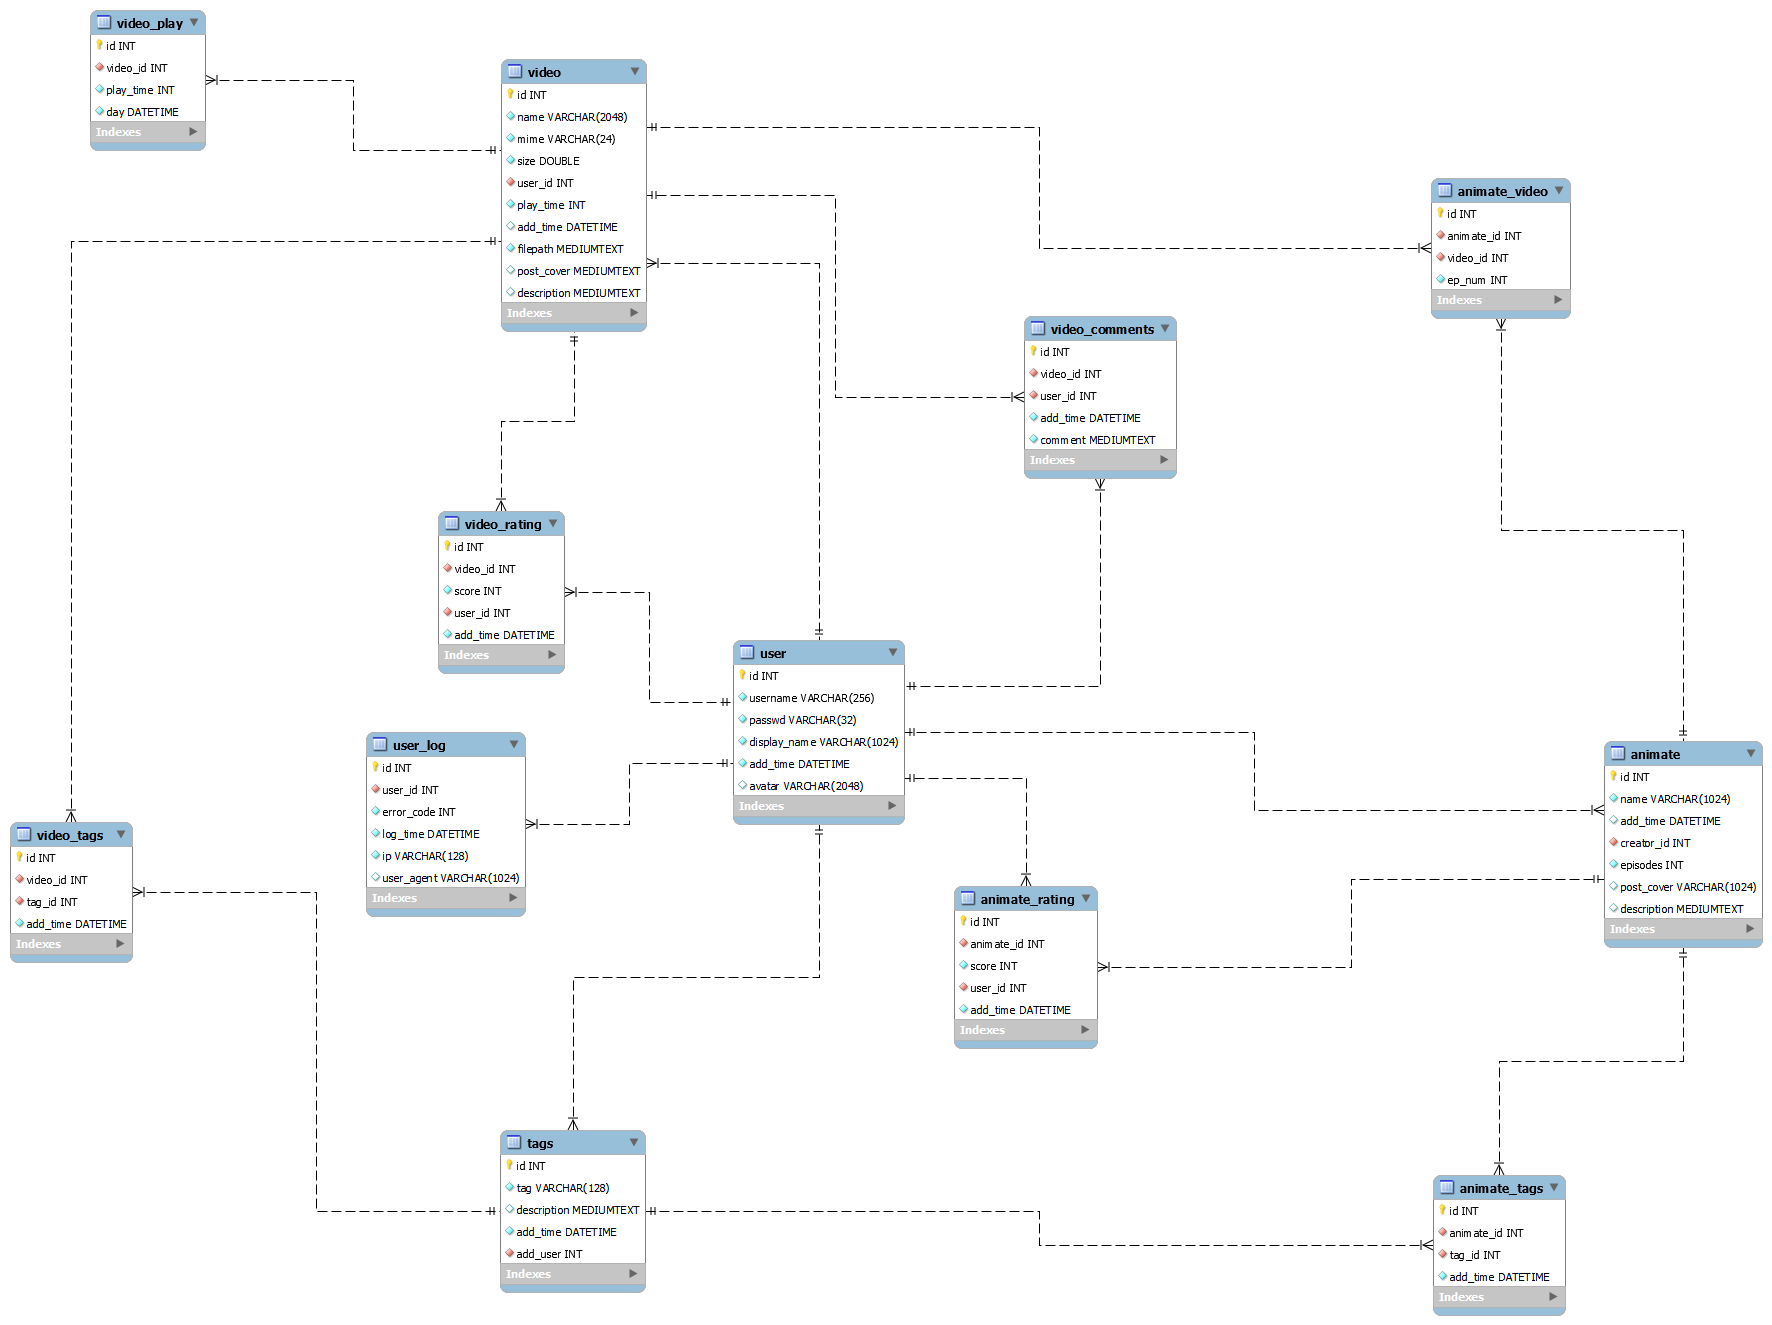
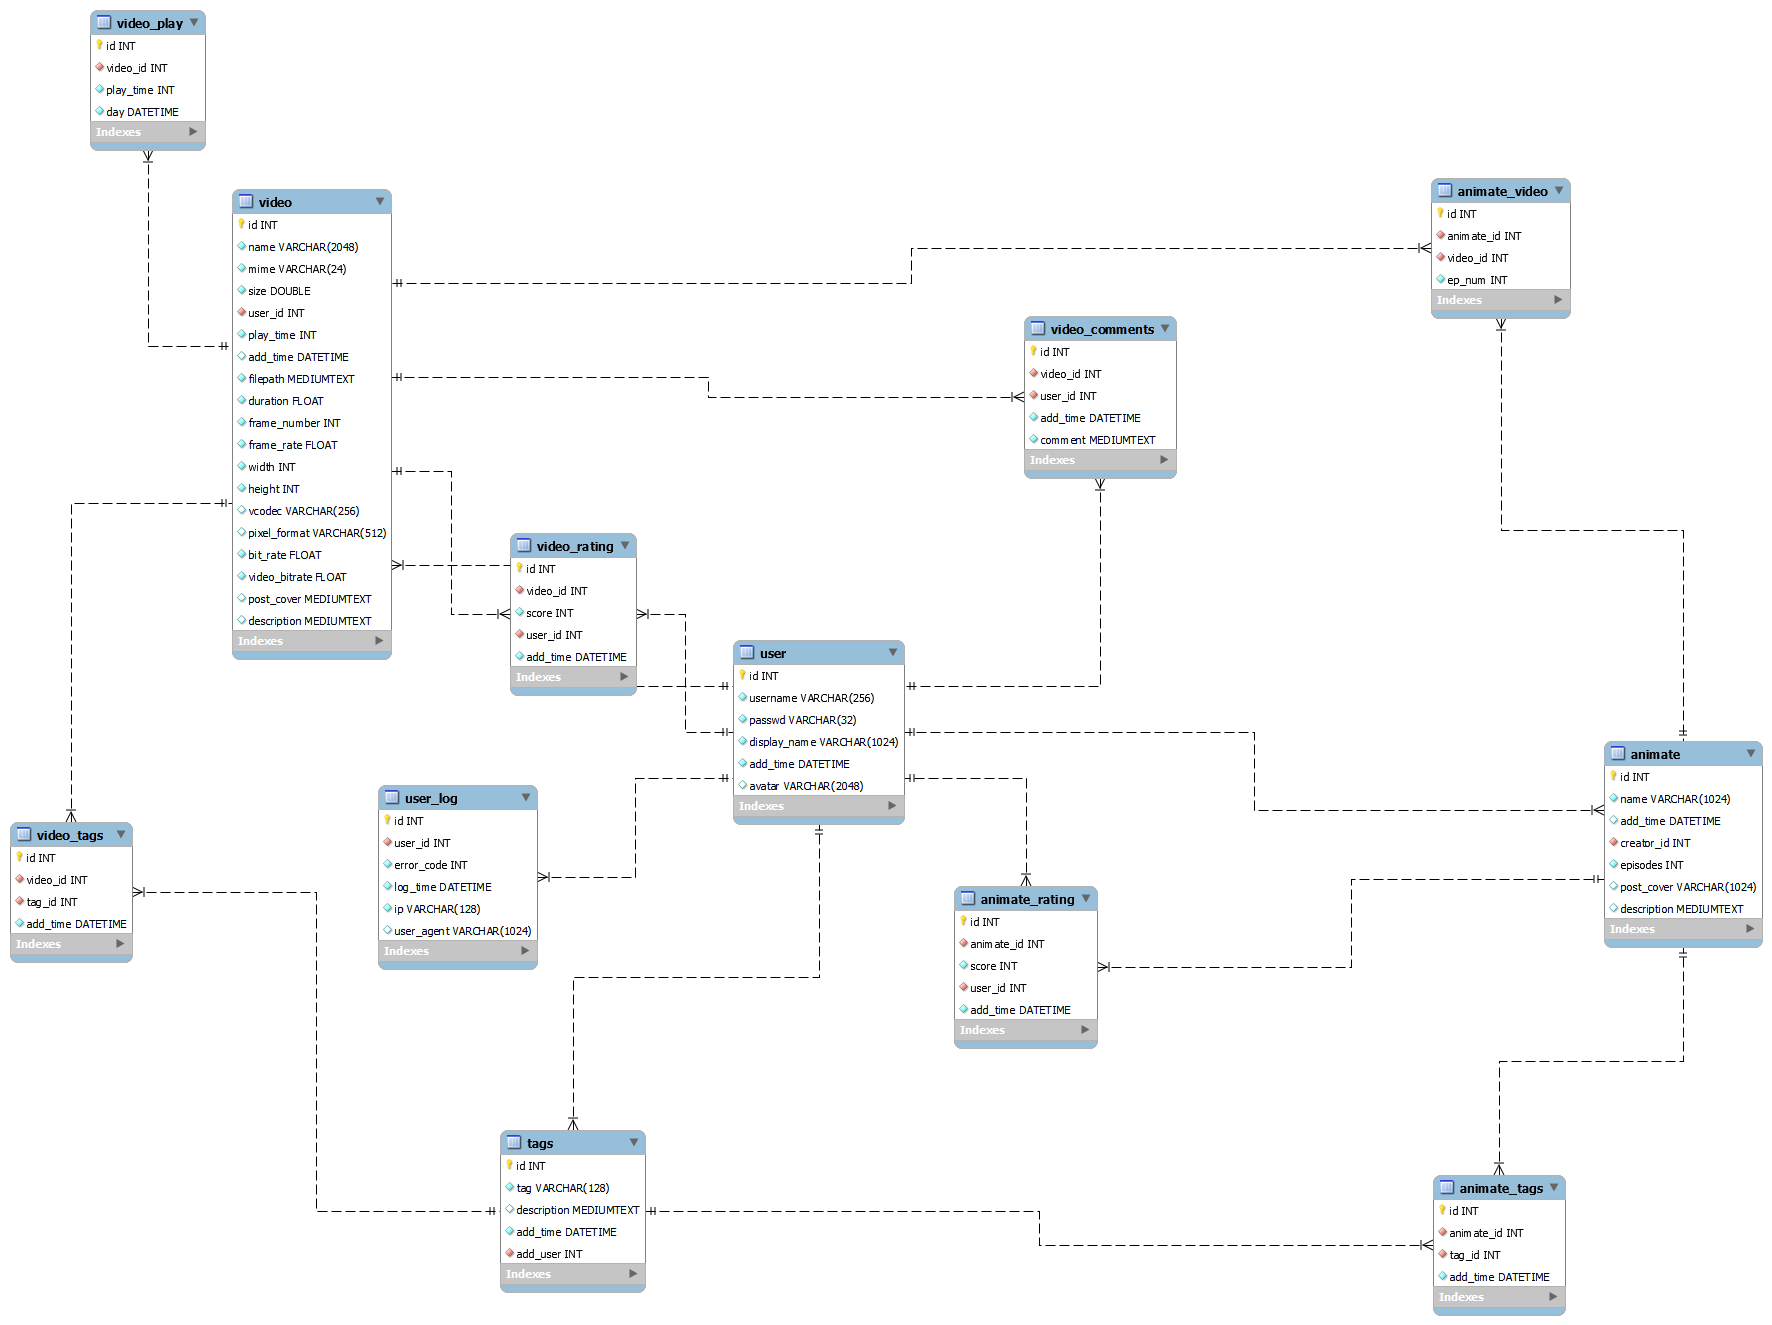
add video metadata into table

Changed region(s): [[0.1242, 0.1238, 0.3725, 0.7426], [0.2793, 0.0309, 0.3725, 0.2785]]

diff --git a/mysql/upgrade_notes.md b/mysql/upgrade_notes.md
@@ -41,6 +41,60 @@ Field data attribute of current table ``size`` has been updated:
 ALTER TABLE `yilia`.`video` CHANGE COLUMN `size` `size` double NOT NULL DEFAULT 0 COMMENT '' ;
 ```
 
+Add a new data field ``duration``:
+
+```sql
+ALTER TABLE `yilia`.`video` ADD COLUMN `duration` double UNSIGNED NOT NULL DEFAULT 0 COMMENT '' ;
+```
+
+Add a new data field ``frame_number``:
+
+```sql
+ALTER TABLE `yilia`.`video` ADD COLUMN `frame_number` int (11) UNSIGNED NOT NULL DEFAULT 0 COMMENT '' ;
+```
+
+Add a new data field ``frame_rate``:
+
+```sql
+ALTER TABLE `yilia`.`video` ADD COLUMN `frame_rate` double UNSIGNED NOT NULL DEFAULT 0 COMMENT '' ;
+```
+
+Add a new data field ``width``:
+
+```sql
+ALTER TABLE `yilia`.`video` ADD COLUMN `width` int (11) UNSIGNED NOT NULL DEFAULT 0 COMMENT '' ;
+```
+
+Add a new data field ``height``:
+
+```sql
+ALTER TABLE `yilia`.`video` ADD COLUMN `height` int (11) UNSIGNED NOT NULL DEFAULT 0 COMMENT '' ;
+```
+
+Add a new data field ``vcodec``:
+
+```sql
+ALTER TABLE `yilia`.`video` ADD COLUMN `vcodec` varchar (256) COMMENT '' ;
+```
+
+Add a new data field ``pixel_format``:
+
+```sql
+ALTER TABLE `yilia`.`video` ADD COLUMN `pixel_format` varchar (512) COMMENT '' ;
+```
+
+Add a new data field ``bit_rate``:
+
+```sql
+ALTER TABLE `yilia`.`video` ADD COLUMN `bit_rate` double UNSIGNED NOT NULL DEFAULT 0 COMMENT '' ;
+```
+
+Add a new data field ``video_bitrate``:
+
+```sql
+ALTER TABLE `yilia`.`video` ADD COLUMN `video_bitrate` double UNSIGNED NOT NULL DEFAULT 0 COMMENT '' ;
+```
+
 ### Updates for ``video_comments``
 
 ### Updates for ``video_play``
